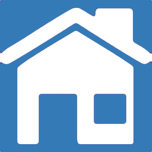
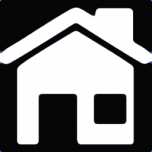
New dark theme

diff --git a/src/containers/app.jsx b/src/containers/app.jsx
@@ -26,12 +26,24 @@ class App extends Component {
     this.startListenToMusic = this.startListenToMusic.bind(this);
     this.starWatchAppleTv = this.starWatchAppleTv.bind(this);
     this.handleVisibilityChange = this.handleVisibilityChange.bind(this);
+    this.onBlurHandler = this.onBlurHandler.bind(this);
+    this.onFocusHandler = this.onFocusHandler.bind(this);
   }
 
   componentWillMount() {
     this.fetchTemperature();
 //    document.addEventListener('visibilitychange', this.handleVisibilityChange, false);
     window.addEventListener('pageshow', this.handleVisibilityChange, false);
+    window.addEventListener('blur', this.onBlurHandler, false);
+    window.addEventListener('focus', this.onFocusHandler, false);
+  }
+
+  onFocusHandler() {
+    this.logg('onFocusHandler');
+  }
+
+  onBlurHandler() {
+    this.logg('onBlurHandler');
   }
 
   componentWillUnmount() {
@@ -46,6 +58,7 @@ class App extends Component {
   }
 
   handleVisibilityChange() {
+    this.logg('handleVisibilityChange');
     this.props.dispatch(setVisibility(!document.hidden));
   }
 
@@ -128,6 +141,11 @@ class App extends Component {
     );
   }
 
+  logg(text) {
+    if (!document.getElementById("log")) return;
+    document.getElementById("log").innerHTML += `<div>${text}</div>`;
+  }
+
   render() {
     const { turnOffEverythingActive } = this.props;
     return (
@@ -147,6 +165,7 @@ class App extends Component {
         </ul>
         { this.renderLightsButtons() }
         { this.renderHarmonyButtons() }
+        <div id="log" />
       </div>
     );
   }

diff --git a/src/containers/style.scss b/src/containers/style.scss
@@ -1,7 +1,8 @@
 html, body {
   margin: 0;
   padding: 0;
-  background-color: #f7f7f9;
+  background-color: #060606;
+  color: #888888;
 }
 
 .clearfix:before,
@@ -18,7 +19,7 @@ html, body {
   list-style-type: none;
   margin: 0;
   padding: 0 2rem;
-  border-bottom: 1px solid #ccc;
+  border-bottom: 1px solid black;
   display: flex;
   justify-content: center;
   flex-wrap: wrap;

diff --git a/src/components/header/style.scss b/src/components/header/style.scss
@@ -2,9 +2,10 @@ header {
   padding: 0.5rem;
   padding-top: 1.5rem;
   text-align: center;
-  background-color: #337ab7;
+  background-color: #060606;
   color: white;
   position: relative;
+  border-bottom: 1px solid #282828;
 
   @media only screen
   and (min-device-width: 768px)

diff --git a/src/components/button/style.scss b/src/components/button/style.scss
@@ -34,8 +34,8 @@
   background-image: none;
   border: 1px solid transparent;
   border-radius: 0.5rem;
-  color: #333;
-  background-color: #fff;
-  border-color: #ccc;
+  color: #888888;
+  background-color: #222222;
+  border-color: #282828;
   text-align: center;
 }
